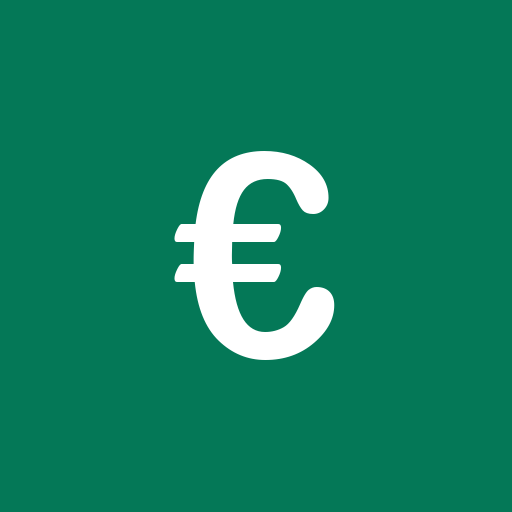
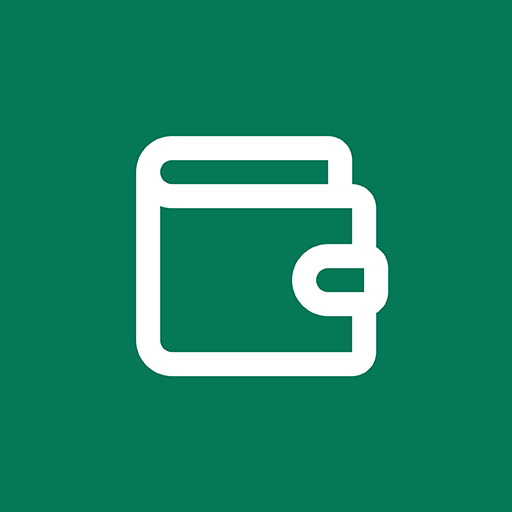
Εικονίδιο εφαρμογής: πορτοφολάκι αντί για €
Ο χρήστης έδωσε το ακριβές SVG (lucide wallet) και export μέσω Photoshop· τα
υπόλοιπα μεγέθη παράγονται από το 512x512 με resize.

Changed region(s): [[0.25, 0.25, 0.7812, 0.75]]

diff --git a/history.md b/history.md
@@ -22,6 +22,11 @@ Safari). Στο `index.html` προστέθηκαν τα αντίστοιχα `<
 Χρειάζεται νέα προσθήκη στην αρχική οθόνη για να φανεί το νέο εικονίδιο· η
 παλιά συντόμευση προς το base44 URL μπορεί να διαγραφεί χειροκίνητα.
 
+**Ενημέρωση ίδιας μέρας:** το αρχικό εικονίδιο (λευκό €) αντικαταστάθηκε με
+το πορτοφολάκι (lucide `wallet`), λευκό σε φόντο emerald-700 — ο χρήστης
+έδωσε το ακριβές SVG και το export (512×512, μέσω Photoshop). Τα 192/180
+παράγονται από αυτό με resize.
+
 ---
 
 ## 2026-07-18 — Αφαίρεση χειροκίνητου διακανονισμού Βοτανικού